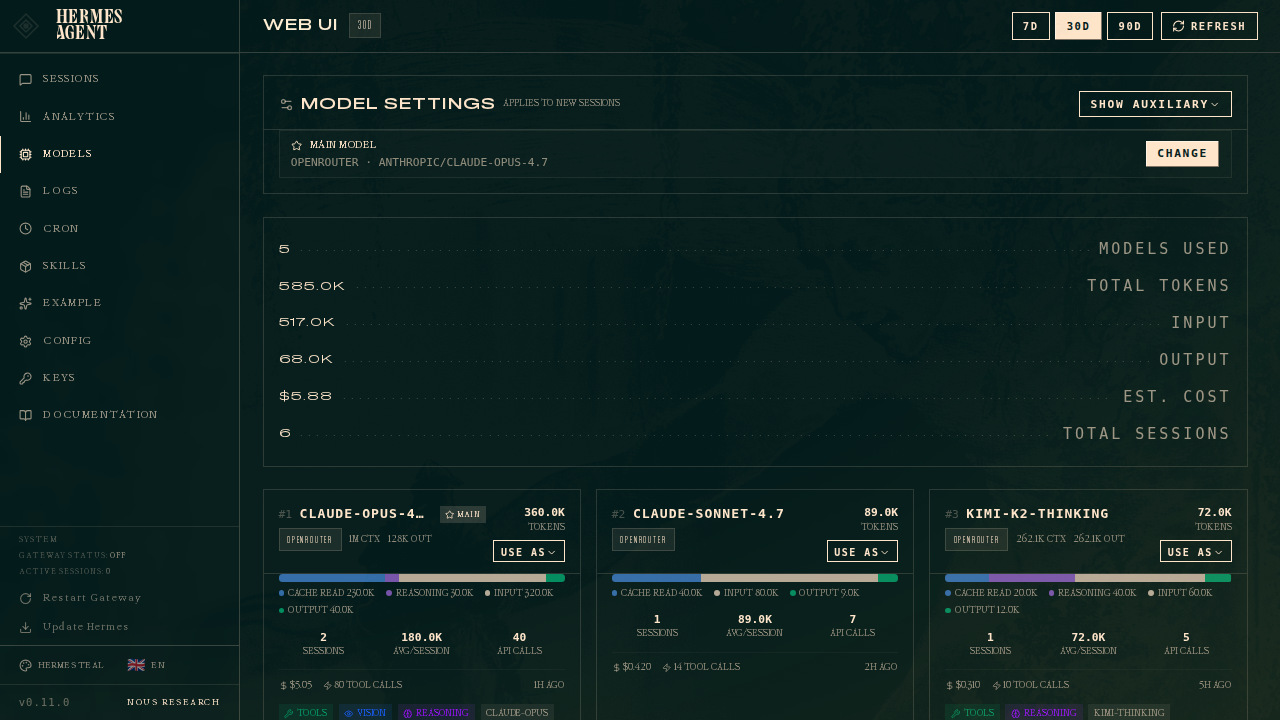
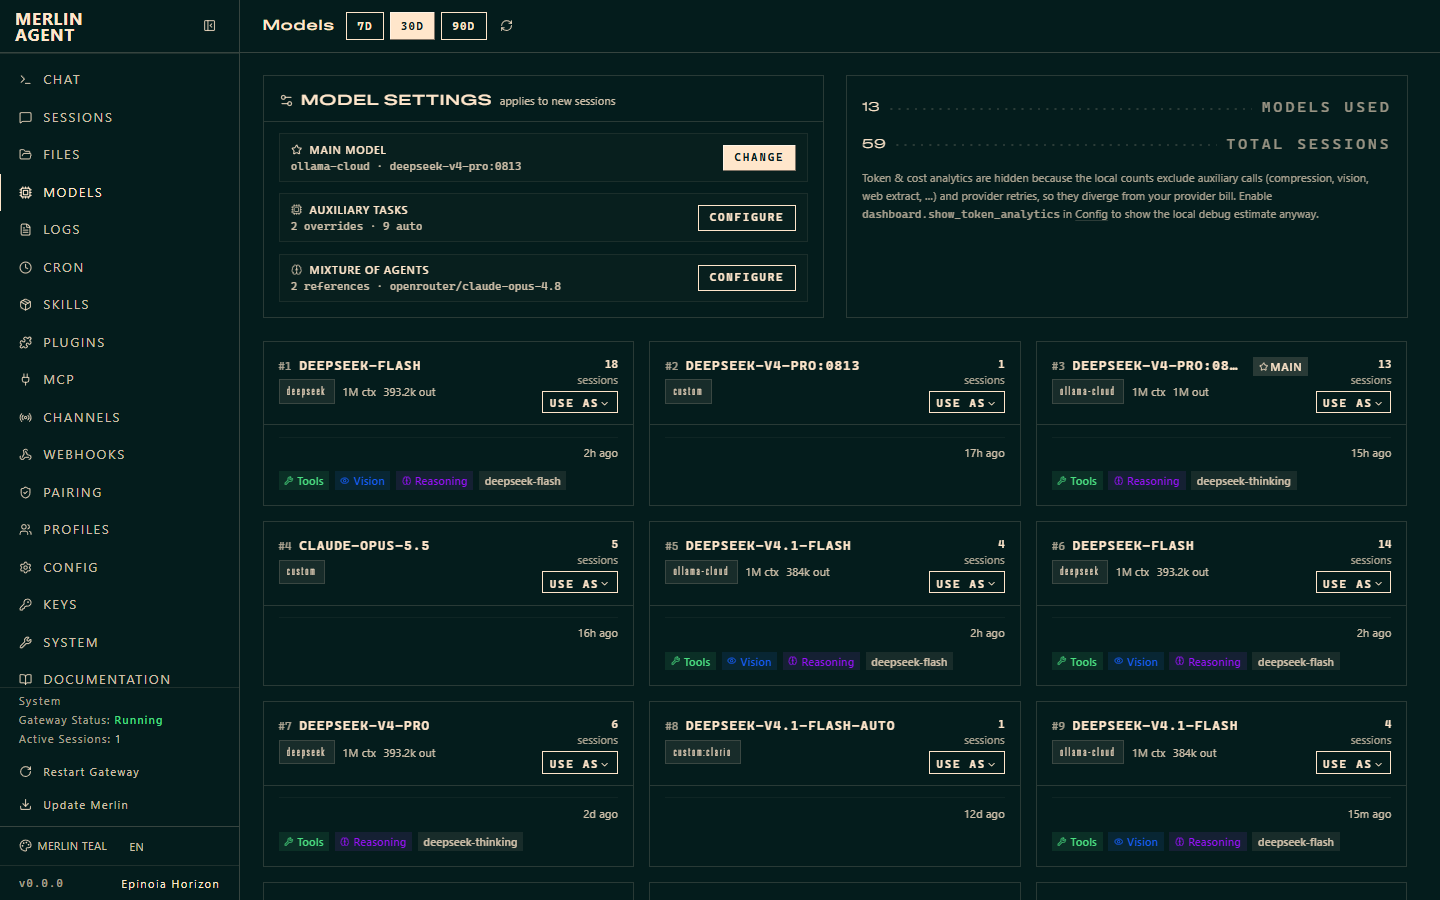
docs(screenshots): re-shoot the Models page from the current Merlin dashboard
Every screenshot under website/static/img/docs/dashboard-models/ was captured
from the upstream Hermes Agent dashboard: the wordmark reads "HERMES AGENT",
the sidebar button "Update Hermes", the theme row "HERMES TEAL", and the footer
carries "NOUS RESEARCH" and v0.11.0. They were never re-shot after the rebrand,
so the docs page shipped another product's UI.

Replaced all four from the live Merlin dashboard (title "Merlin Agent -
Dashboard", wordmark "MERLIN AGENT", footer "Epinoia Horizon"), captured with
headless Chromium against `merlin dashboard --insecure` on a local port:
overview, picker dialog, auxiliary tasks modal, and the "use as" dropdown.

Two statements on the page no longer matched the shipped UI and are corrected
against what the dashboard actually renders:

- the auxiliary panel opens from **Configure** on the Auxiliary tasks card, not
  "Show auxiliary";
- the slot list includes **Review** (`/review` subagent); the stale Web Extract
  row is gone.

Not covered here: the rest of the docs image set (website/static/img/dashboard/,
/img/kanban-tutorial/, /img/docs/tui-session-orchestrator/) is still
upstream-branded — e.g. admin-sessions.png shows "HERMES AGENT" and "Nous
Research" too. That pass needs the same treatment page by page.

diff --git a/website/docs/user-guide/configuring-models.md b/website/docs/user-guide/configuring-models.md
@@ -80,7 +80,7 @@ Merlin still prints the full data-policy warning and the acknowledgement key on 
 
 ## Setting auxiliary models
 
-Click **Show auxiliary** to reveal the 11 task slots:
+Click **Configure** on the **Auxiliary tasks** card to reveal the 11 task slots:
 
 ![Auxiliary panel expanded](/img/docs/dashboard-models/auxiliary-expanded.png)
 
@@ -94,7 +94,7 @@ Every auxiliary task defaults to `auto` — meaning Merlin tries your main model
 | **Vision** | When your main model lacks vision support. Point it at `google/gemini-2.5-flash` or `gpt-4o-mini`. |
 | **Compression** | When you're burning reasoning tokens on Opus/M2.7 just to summarize context. A fast chat model does the job at 1/50th the cost. |
 | **Approval** | For `approval_mode: smart` — a fast/cheap model (haiku, flash, gpt-5-mini) decides whether to auto-approve low-risk commands. Expensive models here are waste. |
-| **Web Extract** | When you use `web_extract` heavily. Same logic as compression — summarization doesn't need reasoning. |
+| **Review** | Routes the `/review` subagent (`merlin review`) — a code-review pass that can be long, so a cheaper aux model is often worthwhile. |
 | **Skills Hub** | `merlin skills search` uses this. Usually fine at `auto`. |
 | **MCP** | MCP tool routing. Usually fine at `auto`. |
 | **Triage Specifier** | Routes the Kanban triage specifier (`merlin kanban specify`) that expands a rough one-liner into a concrete spec. A cheap, capable model works well. |
